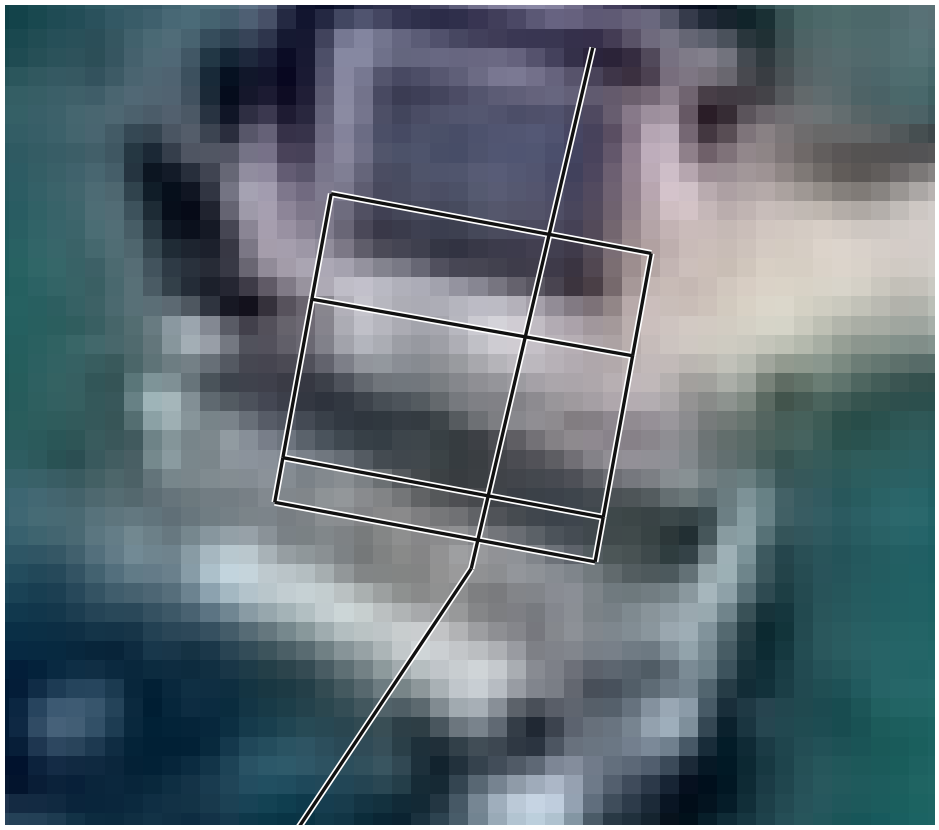
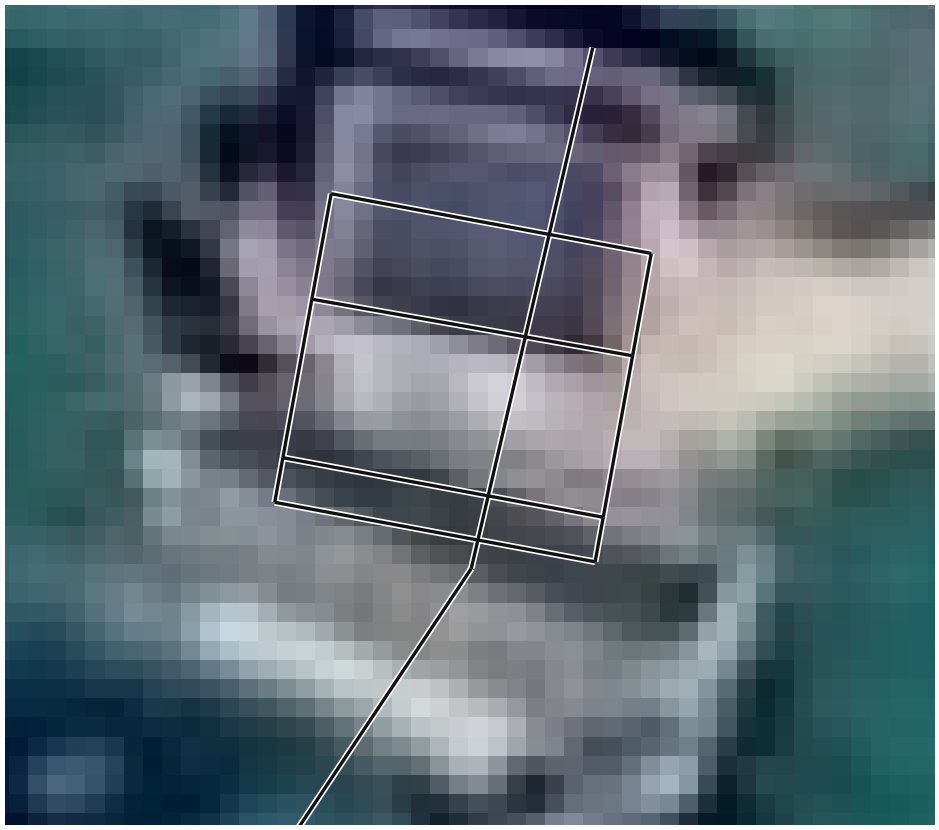
Google illesztés: DWG vonalak ~1 m északra (déli korrekció csökkentve)

diff --git a/gis-work/google_maps_composite.py b/gis-work/google_maps_composite.py
@@ -43,7 +43,7 @@ EOV = CRS.from_epsg(23700)
 # Melléképület sarok-illesztés: a Google NW sarka a DWG SE sarkán volt.
 # Korrekció: Google háttér további eltolása keleti + déli irányban (méter, EOV).
 BUILDING_FOOTPRINT_SHIFT_EAST_M = 1.6
-BUILDING_FOOTPRINT_SHIFT_SOUTH_M = 2.5
+BUILDING_FOOTPRINT_SHIFT_SOUTH_M = 1.4
 WEB_MERCATOR = CRS.from_epsg(3857)
 TO_WGS84 = Transformer.from_crs(EOV, "EPSG:4326", always_xy=True)
 TO_EOV = Transformer.from_crs("EPSG:4326", EOV, always_xy=True)

diff --git a/gis-work/README-szintvonal-osszefuzes.md b/gis-work/README-szintvonal-osszefuzes.md
@@ -25,7 +25,7 @@ python3 /workspace/gis-work/google_maps_composite.py
 - A CAD koordináták **EOV (EPSG:23700)** méterben vannak.
 - A Google műhold csempék Web Mercatorból EOV-ba kerülnek visszavetítésre.
 - Ha elérhető a korábbi ortofotó, **phase-correlation** finomhangolást kap (legjobb illesztés).
-- Google illesztés: melléképület sarok alapján finom **délkeleti** korrekció (kb. **1,6 m kelet + 2,5 m dél**), ellenőrző vágat: `googlemaps-alignment-check-annex.png`.
+- Google illesztés: melléképület sarok alapján finom korrekció (kb. **1,6 m kelet + 1,4 m dél**), ellenőrző vágat: `googlemaps-alignment-check-annex.png`.
 
 ## 2. lépés – prompt ortofotóra helyezéshez
 
